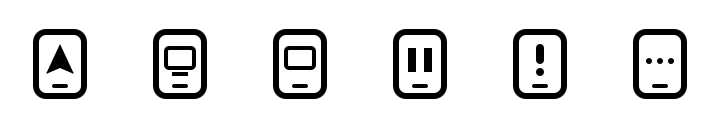
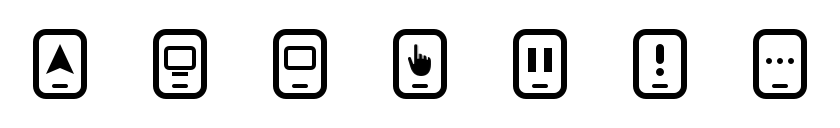
feat: distinguish manual-only menu status
Add a dedicated hand-pointing menu icon for Manual Only mode.

Keep the manual state visible even when an iPad is connected, while preserving warning, working, and paused priorities.

Update generated icon assets, native resource allowlists, build previews, and the Chinese, English, and Japanese README descriptions.

Expand menu and StateEngine coverage for freshness, service, revision, transition, and error combinations.

diff --git a/scripts/build_menu_icons.swift b/scripts/build_menu_icons.swift
@@ -4,7 +4,7 @@ import AppKit
 let root = URL(fileURLWithPath: #filePath).deletingLastPathComponent().deletingLastPathComponent()
 let output = root.appendingPathComponent("assets/menu-icons")
 try FileManager.default.createDirectory(at: output, withIntermediateDirectories: true)
-let states = ["ipad", "physical", "virtual", "paused", "warning", "working"]
+let states = ["ipad", "physical", "virtual", "manual", "paused", "warning", "working"]
 
 func draw(_ state: String) {
     NSColor.black.set()
@@ -21,6 +21,9 @@ func draw(_ state: String) {
         arrow.line(to: NSPoint(x: 12.5, y: 6.5))
         arrow.close()
         arrow.fill()
+    case "manual":
+        NSImage(systemSymbolName: "hand.point.up.fill", accessibilityDescription: nil)!
+            .draw(in: NSRect(x: 5.5, y: 5.5, width: 7, height: 9))
     case "paused":
         for x in [6.0, 10.0] { NSBezierPath(rect: NSRect(x: x, y: 7, width: 2, height: 6)).fill() }
     case "warning":
@@ -52,9 +55,9 @@ for state in states {
     try png(width: 36, height: 36, scale: 2) { draw(state) }
         .write(to: output.appendingPathComponent("\(state).png"))
 }
-try png(width: 720, height: 128, scale: 4) {
+try png(width: states.count * 120, height: 128, scale: 4) {
     NSColor.white.setFill()
-    NSRect(x: 0, y: 0, width: 180, height: 32).fill()
+    NSRect(x: 0, y: 0, width: states.count * 30, height: 32).fill()
     for (index, state) in states.enumerated() {
         NSGraphicsContext.saveGraphicsState()
         let move = NSAffineTransform()

diff --git a/native/Settings.swift b/native/Settings.swift
@@ -797,7 +797,7 @@ private struct SettingsConnectionHotKey: View {
                 .font(settingsFont(.callout)).foregroundStyle(.orange)
             SettingsHotKeyRecorder(model: model, shortcut: shortcut)
                 .frame(width: 250, height: 32)
-a            Text(model.tr("點選按鍵欄，按下組合後儲存；Esc 或切換視窗可取消。錄製期間暫停全域快速鍵。"))
+            Text(model.tr("點選按鍵欄，按下組合後儲存；Esc 或切換視窗可取消。錄製期間暫停全域快速鍵。"))
                 .font(settingsFont(.callout)).foregroundStyle(.secondary)
             HStack {
                 Button(model.tr("儲存快速鍵")) {

diff --git a/native/PadPilot.swift b/native/PadPilot.swift
@@ -88,7 +88,7 @@ struct MenuRow: Codable {
 }
 
 func menuIcon(_ name: String) -> NSImage? {
-    let allowed = ["ipad", "physical", "virtual", "paused", "working", "warning"]
+    let allowed = ["ipad", "physical", "virtual", "manual", "paused", "working", "warning"]
     let name = allowed.contains(name) ? name : "warning"
     let url = Bundle.main.resourceURL?.appendingPathComponent("menu-icons/\(name).png")
     let image = url.flatMap { NSImage(contentsOf: $0) }

diff --git a/tests/test_menu_pairing.py b/tests/test_menu_pairing.py
@@ -12,7 +12,8 @@ from unittest.mock import MagicMock, patch
 from core.betterdisplay import BetterDisplayCLI
 from core.config import Config
 from core.detector import DisplayDetector
-from core.models import DisplayInfo
+from core.models import ActualState, DisplayInfo, OperationMode
+from core.state_engine import StateEngine
 
 ROOT = Path(__file__).resolve().parents[1]
 MENU = runpy.run_path(str(ROOT / 'core/menu.py'))
@@ -31,7 +32,7 @@ class MenuPairingTests(unittest.TestCase):
     def test_template_icons_match_snapshot_and_transition(self):
         import struct
         for icon, name in [('📱', 'ipad'), ('🖥', 'physical'), ('◻', 'virtual'),
-                           ('⏸', 'paused'), ('⚠', 'warning')]:
+                           ('☝', 'manual'), ('⏸', 'paused'), ('⚠', 'warning')]:
             status = {'icon': icon, 'actual': {'timestamp': 1000, 'sidecar_devices': []}}
             self.assertEqual(rendered(status, {})['icon'], name)
             header = next(row for row in rendered(status, {})['items'] if row['title'] == 'PadPilot')
@@ -39,11 +40,52 @@ class MenuPairingTests(unittest.TestCase):
             data = (ROOT / 'assets/menu-icons' / f'{name}.png').read_bytes()
             self.assertEqual(struct.unpack('>II', data[16:24]), (36, 36))
         self.assertEqual(rendered({}, {})['icon'], 'warning')
+        self.assertEqual(rendered({'actual': {'timestamp': 1000, 'sidecar_devices': []}}, {})['icon'], 'warning')
         status = {'icon': '📱', 'actual': {'timestamp': 1000, 'sidecar_devices': []},
                   'runtime': {'transition_state': 'CONNECTING'}}
         self.assertEqual(rendered(status, {})['icon'], 'working')
         status['runtime']['last_error'] = 'failed'
         self.assertEqual(rendered(status, {})['icon'], 'warning')
+
+    def test_manual_snapshot_keeps_menu_icon_priorities(self):
+        cfg = Config(mode=OperationMode.MANUAL_ONLY, auto_detect_ipad=False)
+        engine = StateEngine(cfg, MagicMock(), MagicMock())
+        engine.actual = ActualState(timestamp=1000, sidecar_connected=True, sidecar_display_online=True)
+        engine.desired = engine.policy(engine.actual, cfg, engine.runtime)
+        with patch('core.state_engine.write_atomic_status') as write:
+            engine._export_status(satisfied=True)
+        status = write.call_args.args[0].to_dict()
+        self.assertEqual(status['icon'], '☝')
+        for running, now, revision, runtime, expected in [
+            (True, 1000, cfg.revision, {}, 'manual'),
+            (False, 1000, cfg.revision, {}, 'paused'),
+            (False, 1201, cfg.revision, {}, 'paused'),
+            (None, 1000, cfg.revision, {}, 'warning'),
+            (True, 1201, cfg.revision, {}, 'warning'),
+            (True, 1000, cfg.revision, {'transition_state': 'CONNECTING_SIDECAR'}, 'working'),
+            (True, 1000, cfg.revision + 1, {}, 'working'),
+            (True, 1000, cfg.revision - 1, {}, 'warning'),
+            (True, 1000, cfg.revision, {'last_error': 'failed'}, 'warning'),
+            (False, 1000, cfg.revision, {'last_error': 'failed'}, 'warning'),
+        ]:
+            with self.subTest(running=running, now=now, revision=revision, runtime=runtime):
+                model = MENU['render'](dict(status, runtime=dict(status['runtime'], **runtime)),
+                                       dict(cfg.to_dict(), revision=revision), True,
+                                       now=now, service_running=running)
+                self.assertEqual(model['icon'], expected)
+                self.assertEqual(next(row['icon'] for row in model['items'] if 'icon' in row), expected)
+        engine.actual.sidecar_connected = False
+        self.assertEqual(engine._determine_icon(True), '☝')
+        engine.runtime.cooldown_until = time.time() + 60
+        self.assertEqual(engine._determine_icon(True), '⚠')
+        engine.runtime.cooldown_until = 0
+        engine.actual.discovery_errors = {'sidecar': 'timeout'}
+        self.assertEqual(engine._determine_icon(True), '⚠')
+        engine.actual.discovery_errors = {}
+        engine.actual.sidecar_connected = True
+        for mode in (OperationMode.AUTOMATIC, OperationMode.PREFER_IPAD):
+            engine.runtime.mode = mode
+            self.assertEqual(engine._determine_icon(True), '📱')
 
     def test_hidden_menu_does_not_load_state(self):
         function = MENU['read_menu']

diff --git a/core/menu.py b/core/menu.py
@@ -100,12 +100,13 @@ def render(status: dict, config: dict, autostart: bool, now: float | None = None
     known_target = bool(target.get('sidecar_uuid') or target.get('usb_serial'))
     controls = service_running is True and fresh and known_target and not (is_applying or is_out_of_sync) and (auto_detect or same_device(target, status.get('configured_ipad') or {}))
     main = actual.get('main_display') or {}
-    icon = status.get('icon', '⏸') if fresh else '⚠'
+    icon = status.get('icon', '⚠') if fresh else '⚠'
     if errors or runtime.get('last_error') or is_out_of_sync or service_running is None:
         icon = '⚠'
     elif service_running is False:
         icon = '⏸'
-    icon_name = {'📱': 'ipad', '🖥': 'physical', '◻': 'virtual', '⏸': 'paused', '⚠': 'warning'}.get(icon, 'warning')
+    icon_name = {'📱': 'ipad', '🖥': 'physical', '◻': 'virtual', '☝': 'manual',
+                 '⏸': 'paused', '⚠': 'warning'}.get(icon, 'warning')
     if service_running is not False and icon_name != 'warning' and (is_applying or runtime.get('transition_state', 'IDLE') != 'IDLE'):
         icon_name = 'working'
     separator()

diff --git a/core/state_engine.py b/core/state_engine.py
@@ -701,7 +701,7 @@ class StateEngine:
         if self.runtime.cooldown_until > time.time() or self.runtime.last_error or (self.actual and self.actual.discovery_errors):
             return IconStatus.WARNING.value
         if self.runtime.mode == OperationMode.MANUAL_ONLY:
-            return IconStatus.PAUSED.value
+            return IconStatus.MANUAL.value
 
         if self.actual:
             if self.actual.sidecar_connected:

diff --git a/core/models.py b/core/models.py
@@ -44,6 +44,7 @@ class IconStatus(str, Enum):
     PHYSICAL = "🖥"
     IPAD = "📱"
     VIRTUAL = "◻"
+    MANUAL = "☝"
     WARNING = "⚠"
     PAUSED = "⏸"
 

diff --git a/README.en.md b/README.en.md
@@ -133,10 +133,10 @@ The current control target is shown in settings and the menu bar. Both switches 
 The menu bar uses **18 × 18 pt, Retina-ready monochrome icons** that adapt to macOS light and dark appearances. Hover for the PadPilot name; open the menu for the main display, operating mode, devices, and diagnostics.
 
 <p align="center">
-  <img src="assets/menu-icons/preview.png" width="540" alt="PadPilot menu icons: Sidecar, physical display, virtual fallback, paused, warning, and working">
+  <img src="assets/menu-icons/preview.png" width="630" alt="PadPilot menu icons: Sidecar, physical display, virtual fallback, Manual Only, service stopped, warning, and working">
 </p>
 
-The icons represent Sidecar, physical display, virtual fallback, paused, warning, and working, respectively. Assets are included in the repository; developers can rebuild them with `swift scripts/build_menu_icons.swift` after changing the design.
+The icons represent Sidecar, physical display, virtual fallback, Manual Only, service stopped, warning, and working, respectively. The pointing-hand icon (`manual.png`) means the background service is running in Manual Only mode, even when an iPad is connected; the pause icon (`paused.png`) means the background service has stopped. Errors take priority with a warning icon; applying settings or switching displays shows the working icon, then returns to the corresponding state icon. Assets are included in the repository; developers can rebuild them with `swift scripts/build_menu_icons.swift` after changing the design.
 
 On first configuration, PadPilot selects a language from your macOS preferences, defaulting to English on non-Chinese/Japanese systems. Change it through the menu bar's Language menu, the GUI language selector, or `set-language`. GUI usage, troubleshooting, and diagnostic help links open local documents in the selected language. Device names, identifiers, and raw logs retain their original text.
 
